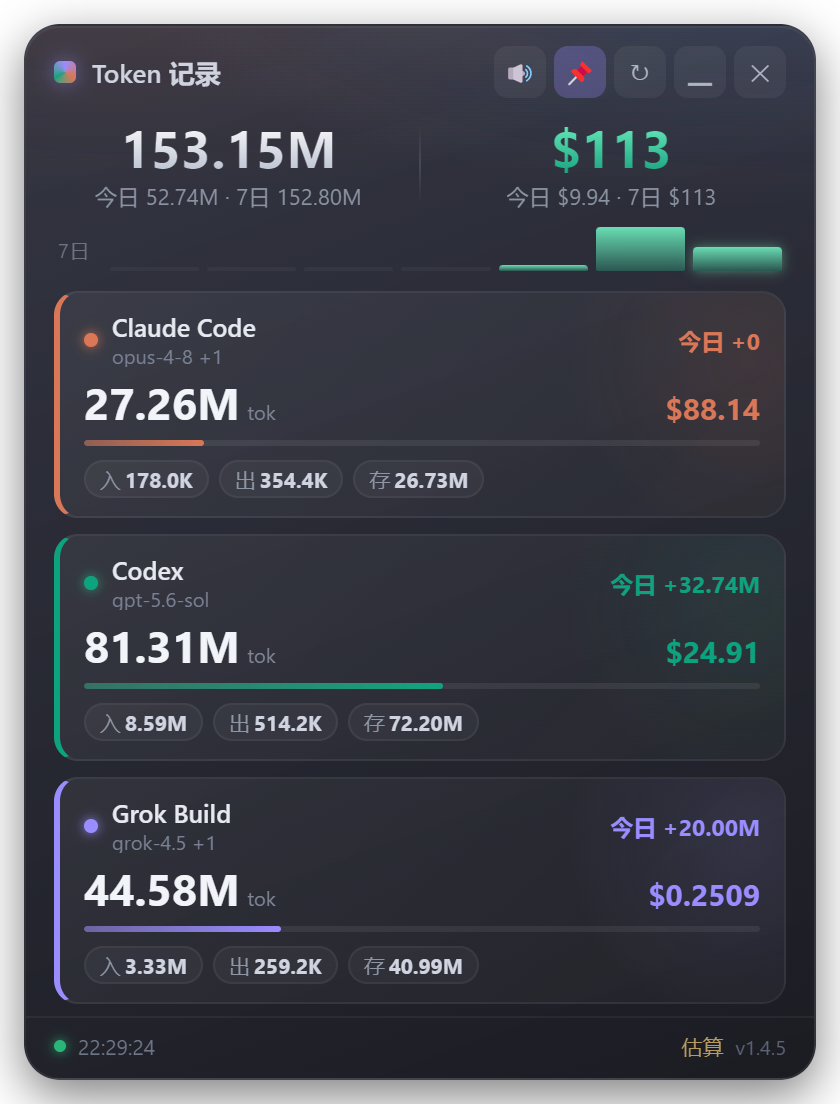
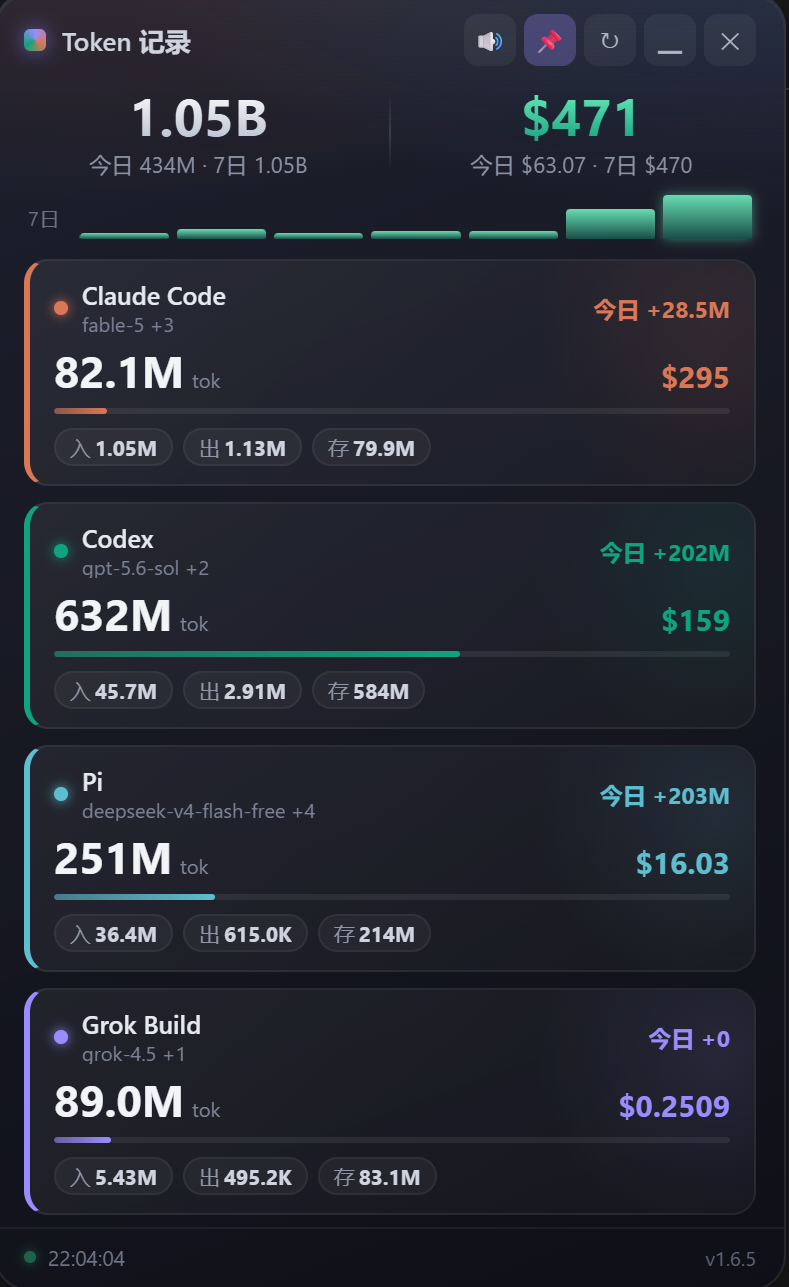
docs: 完善项目主页——hero 重绘补 Pi、徽章、版本对齐 v1.6.5
- docs/readme/hero.svg: 重绘，三卡 → 四卡（补 Pi），文案改四种工具，加 4 SOURCES
- README.md: 顶部 hero.svg 居中嵌入；6 枚 GitHub 徽章（版本/许可证/下载/语言/平台/体积）；版本 v1.5.7 → v1.6.5；三/四源措辞对齐；新增 v1.6.5+ 历史持久化说明；架构章节补 Tauri v2 备注
- src/renderer/index.html: <title> 与品牌名统一为 Token 记录
- .gitignore: 忽略 src-tauri/snapshot_output.json 调试产物
- docs/preview.png: 同步最新截图

diff --git a/src/renderer/index.html b/src/renderer/index.html
@@ -3,7 +3,7 @@
   <head>
     <meta charset="UTF-8" />
     <meta name="viewport" content="width=device-width, initial-scale=1.0" />
-    <title>Token 消耗记录</title>
+    <title>Token 记录</title>
     <link rel="stylesheet" href="style.css" />
   </head>
   <body>

diff --git a/README.md b/README.md
@@ -1,4 +1,25 @@
-# Token 记录 · Desktop Token & Cost Monitor
+<div align="center">
+  <img src="docs/readme/hero.svg" alt="Token 记录" width="100%">
+</div>
+
+<p align="center">
+  <a href="https://github.com/hkm-a/token-record/releases">
+    <img src="https://img.shields.io/github/v/release/hkm-a/token-record?style=flat-square&label=版本&color=70d6a6" alt="版本">
+  </a>
+  <a href="LICENSE">
+    <img src="https://img.shields.io/github/license/hkm-a/token-record?style=flat-square&label=许可证&color=9b8cff" alt="许可证">
+  </a>
+  <a href="https://github.com/hkm-a/token-record/releases">
+    <img src="https://img.shields.io/github/downloads/hkm-a/token-record/total?style=flat-square&label=下载&color=d97757" alt="下载">
+  </a>
+  <img src="https://img.shields.io/badge/语言-Rust_+_JS-10a37f?style=flat-square" alt="语言">
+  <img src="https://img.shields.io/badge/平台-Windows-blueviolet?style=flat-square" alt="平台">
+  <img src="https://img.shields.io/badge/体积-3.8_MB-76a7e8?style=flat-square" alt="体积">
+</p>
+
+---
+
+**当前版本：v1.6.5** · [Releases](https://github.com/hkm-a/token-record/releases/tag/v1.6.5)
 
 本地优先的桌面悬浮窗：汇总 **Claude Code**、**Codex**、**Pi**、**Grok Build** 的 token 消耗与估算费用，数值变化带动效。无需账号、不上云。
 
@@ -7,8 +28,6 @@
 折叠态（标题栏「▁」）：仅两个大数字指标。
 
 ![折叠态](docs/preview-compact.png)
-
-**当前版本：v1.5.7** · [Releases](https://github.com/hkm-a/token-record/releases/tag/v1.5.7)
 
 ---
 
@@ -118,6 +137,8 @@ npm run cli -- --csv .cache/export.csv
 - 快照字段：`period.today` / `period.last7` / `byDay` / `sources`
 - 按日历史：`.cache/daily.json`（约 90 天）
 
+> **v1.6.5+**：历史持久化至 `%APPDATA%/token-record/history.json`，不受本地会话文件清理影响，终身累计。
+
 ---
 
 ## 产品边界（明确不做）
@@ -141,7 +162,7 @@ npm test
 npm run cli
 ```
 
-测试覆盖：采集器、聚合去重、按日 period、价目覆盖、偏好、数据源健康检查。
+测试覆盖：采集器、聚合去重、按日 period、价目覆盖、偏好、数据源健康检查、历史持久化。
 
 ---
 
@@ -157,6 +178,9 @@ src/
 ├── main/         # Electron 主进程、托盘、偏好
 └── renderer/     # 悬浮窗 UI
 ```
+
+> **v1.6.0+** 后端已由 Rust 重写（Tauri v2），前端仍然 `src/renderer/`。
+> CLI 二进制 `trcli`（569KB）与 JS CLI 输出一致。
 
 ---
 
